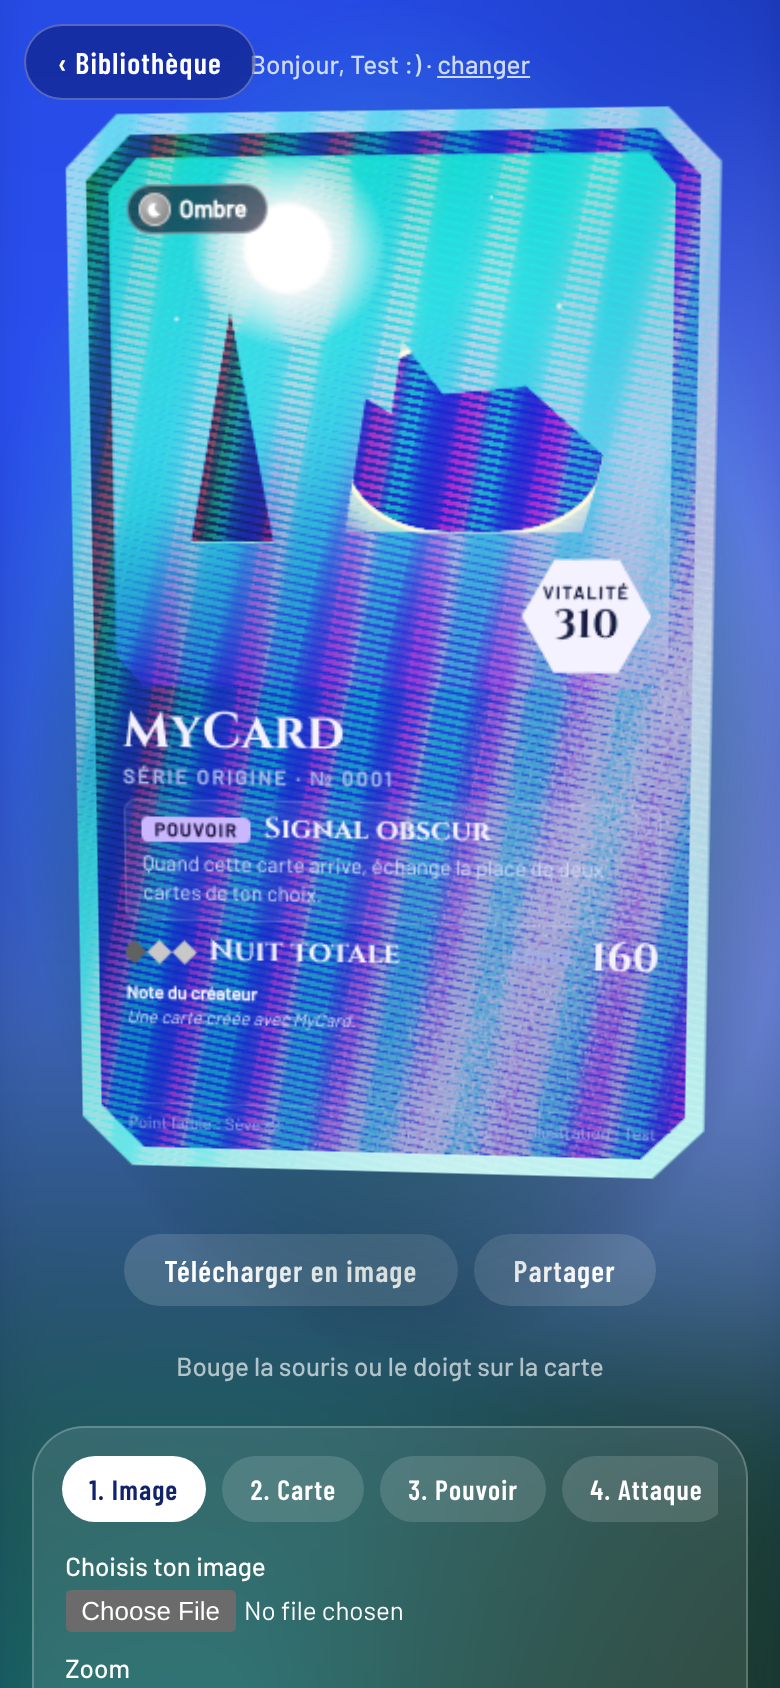
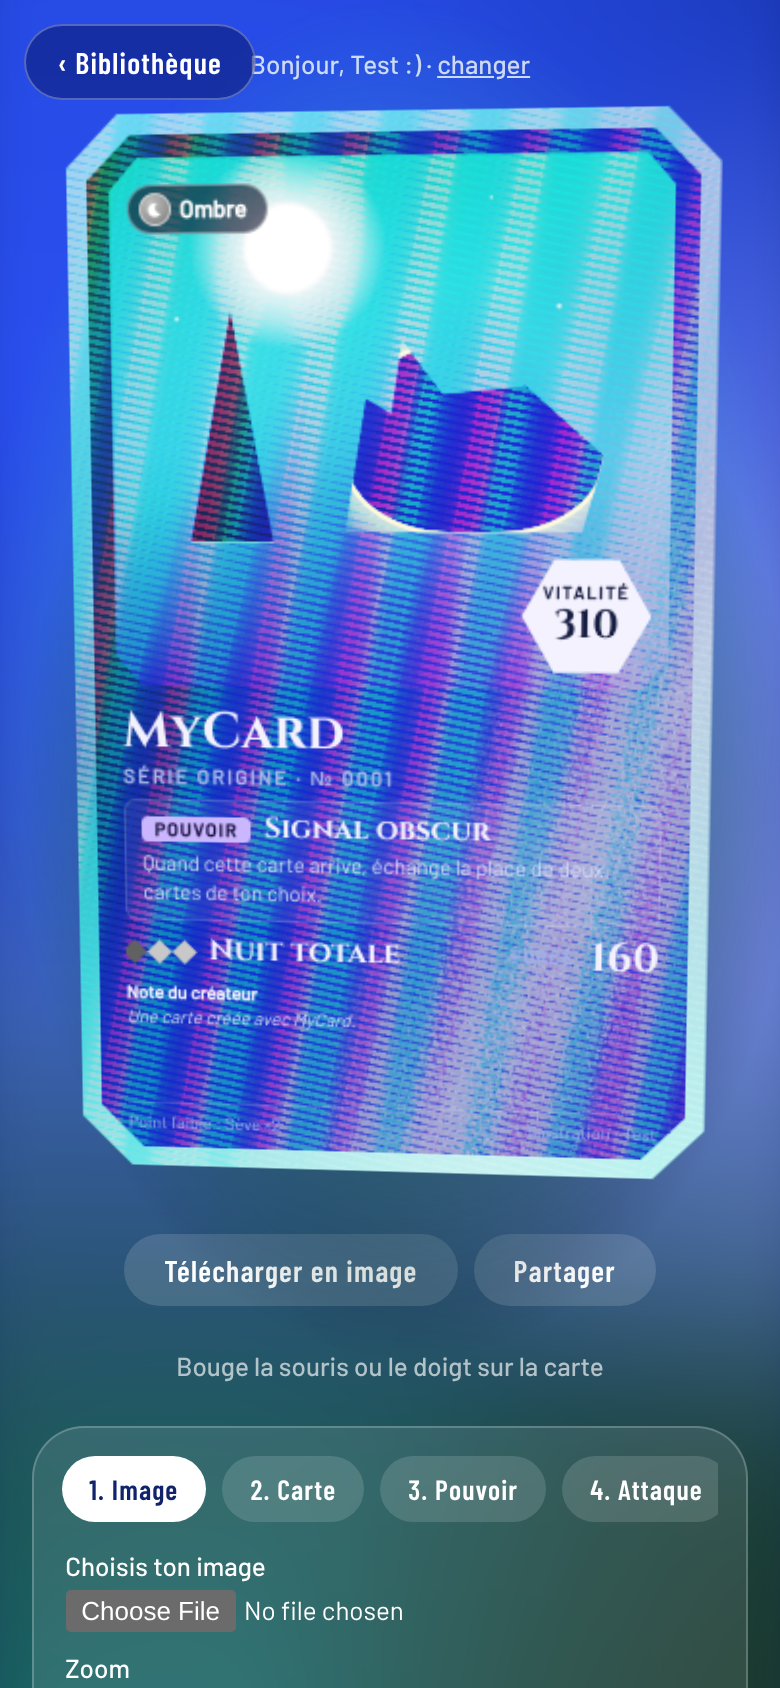
Forme arche : découpe par clip-path pour que Safari ne laisse plus dépasser l'effet en rectangle
Sur iPhone, les calques animés de l'effet holographique n'étaient découpés
que par border-radius, que Safari ignore pour ces calques : un rectangle de
la taille d'une carte classique apparaissait derrière l'arche. L'arche est
maintenant découpée par clip-path: inset(0 round …), comme la forme à coins
coupés (carte, panneau, illustration, dos de carte, cartes des packs).

Claude-Session: https://claude.ai/code/session_0143ULWxCa55ULCk63e98KAX

Changed region(s): [[0.0923, 0.0616, 0.9231, 0.7085]]

diff --git a/index.html b/index.html
@@ -173,13 +173,14 @@ body{margin:0;min-height:100vh;box-sizing:border-box;padding:24px 16px;backgroun
 .cin{position:absolute;inset:0;overflow:hidden;background:var(--cfr);isolation:isolate;will-change:transform;backface-visibility:hidden;-webkit-backface-visibility:hidden}
 .cin>*{position:absolute}
 .card[data-shape=cut] :is(.cin,.holo,.sparkle,.glare,.revwrap,.fxa,.fxg){clip-path:polygon(8% 0,92% 0,100% 4.8%,100% 95.2%,92% 100%,8% 100%,0 95.2%,0 4.8%)}
-.card[data-shape=arch] :is(.cin,.holo,.sparkle,.glare,.revwrap,.fxa,.fxg){border-radius:50% 50% 6.5% 6.5% / 30% 30% 3.9% 3.9%;overflow:hidden}
+/* arche : clip-path (et pas seulement border-radius), que Safari applique aussi aux calques animés */
+.card[data-shape=arch] :is(.cin,.holo,.sparkle,.glare,.revwrap,.fxa,.fxg){border-radius:50% 50% 6.5% 6.5% / 30% 30% 3.9% 3.9%;overflow:hidden;clip-path:inset(0 round 50% 50% 6.5% 6.5% / 30% 30% 3.9% 3.9%)}
 .pan{inset:1.8% 3%;background:var(--cfp)}
 .card[data-shape=cut] .pan{clip-path:polygon(7.5% 0,92.5% 0,100% 4.4%,100% 95.6%,92.5% 100%,7.5% 100%,0 95.6%,0 4.4%)}
-.card[data-shape=arch] .pan{border-radius:50% 50% 5% 5% / 29% 29% 3% 3%}
+.card[data-shape=arch] .pan{border-radius:50% 50% 5% 5% / 29% 29% 3% 3%;clip-path:inset(0 round 50% 50% 5% 5% / 29% 29% 3% 3%)}
 .card[data-shape] .art{inset:4% 6.7% auto 6.7%;height:49%;border-radius:0}
 .card[data-shape=cut] .art{clip-path:polygon(5% 0,95% 0,100% 6%,100% 94%,95% 100%,5% 100%,0 94%,0 6%)}
-.card[data-shape=arch] .art{top:3.6%;height:47.6%;border-radius:50% 50% 3% 3% / 55% 55% 2% 2%}
+.card[data-shape=arch] .art{top:3.6%;height:47.6%;border-radius:50% 50% 3% 3% / 55% 55% 2% 2%;clip-path:inset(0 round 50% 50% 3% 3% / 55% 55% 2% 2%)}
 .ui{inset:0;z-index:3;pointer-events:none;color:var(--cink);font-family:Barlow,Tajawal,sans-serif;container-type:inline-size;direction:ltr}
 .ui>*{position:absolute}
 .elt{left:9.5%;top:6.4%;display:flex;align-items:center;gap:1.4cqw;padding:.9cqw 3cqw .9cqw 1.4cqw;border-radius:99px;background:rgba(11,16,36,.72);border:.3cqw solid rgba(255,255,255,.3);color:#fff;font:700 3.6cqw/1 Barlow,Tajawal,sans-serif;white-space:nowrap}
@@ -715,7 +716,7 @@ button.coins{cursor:pointer}
 /* la forme choisie (Paramètres) s'applique aussi au dos de la carte et aux cartes des packs */
 :root[data-shape] .cardback{border-radius:0}
 :root[data-shape=cut] :is(.cardback,.pk-card .bk,.pk-card::after){clip-path:polygon(8% 0,92% 0,100% 4.8%,100% 95.2%,92% 100%,8% 100%,0 95.2%,0 4.8%)}
-:root[data-shape=arch] :is(.cardback,.pk-card .bk,.pk-card::after){border-radius:50% 50% 6.5% 6.5% / 30% 30% 3.9% 3.9%}
+:root[data-shape=arch] :is(.cardback,.pk-card .bk,.pk-card::after){border-radius:50% 50% 6.5% 6.5% / 30% 30% 3.9% 3.9%;clip-path:inset(0 round 50% 50% 6.5% 6.5% / 30% 30% 3.9% 3.9%)}
 :root[data-shape=cut] .cardback::before{display:none}
 :root[data-shape=arch] .cardback::before{border-radius:50% 50% 5% 5% / 29% 29% 3% 3%}
 .pk-card{border-radius:0}
